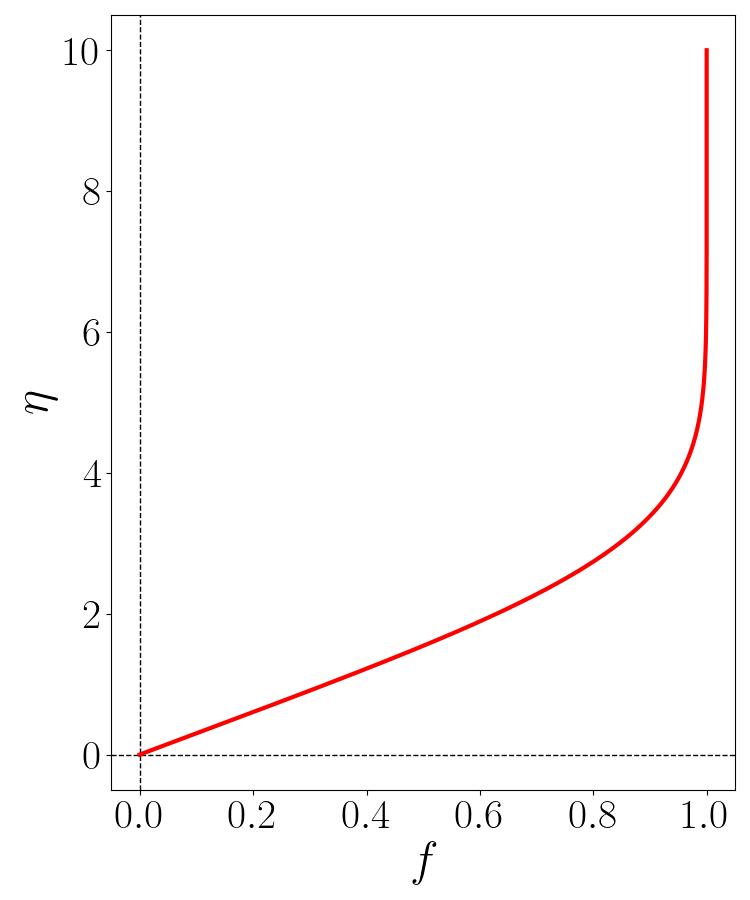
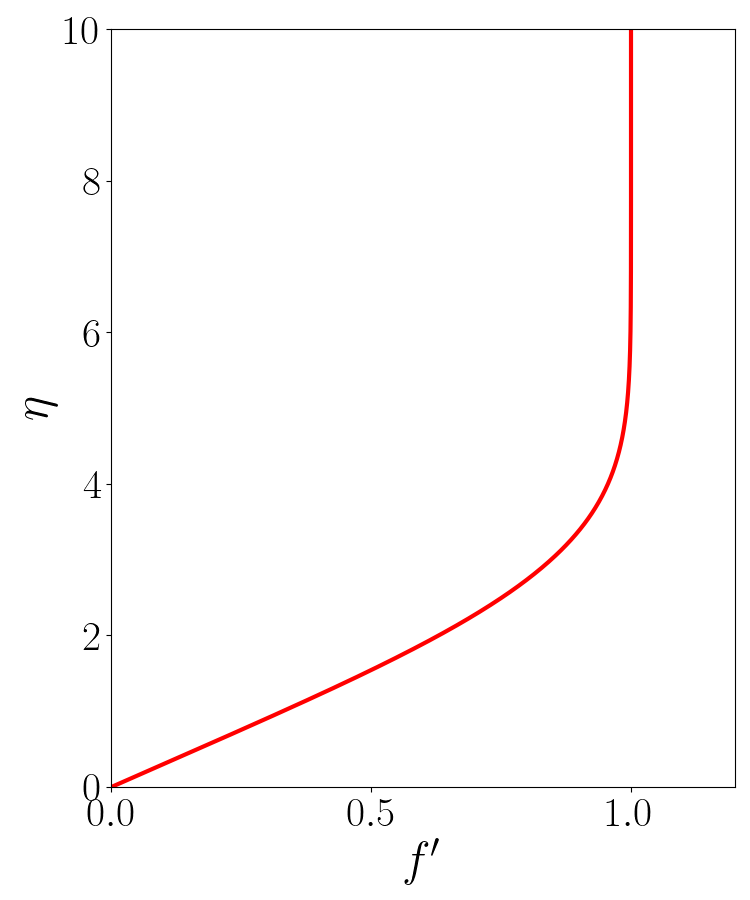
Updated page on Blasius BL with latest method

diff --git a/nu_fd.html b/nu_fd.html
@@ -1,0 +1,150 @@
+<!DOCTYPE html>
+<html>
+<head>
+    <meta charset="utf-8">
+    <meta http-equiv="X-UA-Compatible" content="IE=edge">
+    <meta name="viewport" content="width=device-width, initial-scale=1">
+
+    <script type='text/javascript' src='https://cdn.mathjax.org/mathjax/latest/MathJax.js?config=TeX-AMS-MML_HTMLorMML'></script>
+
+    <title>Roshan Samuel - Projects</title>
+<!--
+Classic Template
+http://www.templatemo.com/tm-488-classic
+-->
+    <!-- load stylesheets -->
+    <link rel="stylesheet" href="https://fonts.googleapis.com/css?family=Open+Sans:300,400">  <!-- Google web font "Open Sans" -->
+    <link rel="stylesheet" href="css/bootstrap.min.css">                                      <!-- Bootstrap style -->
+    <link rel="stylesheet" href="css/templatemo-style.css">                                   <!-- Templatemo style -->
+
+    <!-- HTML5 shim and Respond.js for IE8 support of HTML5 elements and media queries -->
+    <!-- WARNING: Respond.js doesn't work if you view the page via file:// -->
+        <!--[if lt IE 9]>
+          <script src="https://oss.maxcdn.com/html5shiv/3.7.2/html5shiv.min.js"></script>
+          <script src="https://oss.maxcdn.com/respond/1.4.2/respond.min.js"></script>
+          <![endif]-->
+</head>
+
+    <body>
+       
+<!-- Top header with quick-links to other html pages -->
+        <div class="tm-header">
+            <div class="container-fluid">
+                <div class="tm-header-inner">
+                    <a href="index.html" class="navbar-brand tm-site-name">Roshan Samuel</a>
+                    
+                    <!-- navbar -->
+                    <nav class="navbar tm-main-nav">
+
+                        <button class="navbar-toggler hidden-md-up" type="button" data-toggle="collapse" data-target="#tmNavbar">
+                            &#9776;
+                        </button>
+                        
+                        <div class="collapse navbar-toggleable-sm" id="tmNavbar">
+                            <ul class="nav navbar-nav">
+                                <li class="nav-item">
+                                    <a href="index.html" class="nav-link">Home</a>
+                                </li>
+                                <li class="nav-item">
+                                    <a href="research.html" class="nav-link">Research</a>
+                                </li>
+                                <li class="nav-item">
+                                    <a href="projects.html" class="nav-link">Projects</a>
+                                </li>
+                                <li class="nav-item">
+                                    <a href="about.html" class="nav-link">About</a>
+                                </li>
+                            </ul>                        
+                        </div>
+                        
+                    </nav>  
+
+                </div>                                  
+            </div>            
+        </div>
+<!-- End of top header with quick-links to other html pages -->
+
+
+<!-- Image band at the top of home page -->
+        <div class="tm-about-img-container">
+            
+        </div>
+<!-- End image band at the top of home page -->
+
+        <section class="tm-section">
+            <div class="container-fluid">
+                <div class="row tm-2-rows-sm-swap">
+                    <div class="col-xs-12">
+                        <h2 class="tm-gold-text">Finite-difference on non-uniform grids</h3>
+                        <p>
+                        The central-difference schemes for computing derivatives on a uniform grid are very well-known.
+                        </p>
+                    </div>
+                </div>
+
+            </div>
+        </section>
+        
+        <footer class="tm-footer">
+            <div class="container-fluid">
+                <div class="row">
+                    
+                <div class="col-xs-12 col-sm-6 col-md-6 col-lg-6 col-xl-6">
+                    <div class="tm-footer-content-box">
+                        <h3 class="tm-gold-text tm-title tm-footer-content-box-title">About the Page</h3>
+                        <div class="tm-gray-bg">
+                            <p>Classic HTML CSS website template provided by templatemo</p>
+                            <p>
+                            Downloaded from <a href="http://www.free-css.com/free-css-templates/page223/classic" target="_blank" class="nav-link">Free-CSS</a>
+                            </p>
+                        </div>    
+                    </div>
+                </div>
+
+                <div class="col-xs-6 col-sm-3 col-md-3 col-lg-3 col-xl-3">
+                    <div class="tm-footer-content-box tm-footer-links-container">
+                    
+                        <h3 class="tm-gold-text tm-title tm-footer-content-box-title">Jump To</h3>
+                        <nav>
+                            <ul class="nav">
+                                <li><a href="index.html" class="tm-footer-link">Home</a></li>
+                                <li><a href="research.html" class="tm-footer-link">Research</a></li>
+                                <li><a href="projects.html" class="tm-footer-link">Projects</a></li>
+                                <li><a href="about.html" class="tm-footer-link">About</a></li>
+                            </ul>
+                        </nav>
+                    </div>
+                </div>
+
+                <div class="col-xs-6 col-sm-3 col-md-3 col-lg-3 col-xl-3">
+                    <div class="tm-footer-content-box tm-footer-links-container">
+                    
+                        <h3 class="tm-gold-text tm-title tm-footer-content-box-title">Quicklinks</h3>
+                        <nav>
+                            <ul class="nav">
+                                <li><a href="https://www.iitk.ac.in/" target="_blank" class="tm-footer-link">IITK Homepage</a></li>
+                                <li><a href="https://www.iitk.ac.in/me/" target="_blank" class="tm-footer-link">ME Department</a></li>
+                                <li><a href="https://turbulencehub.org/" target="_blank" class="tm-footer-link">Lab Website</a></li>
+                                <li><a href="https://scholar.google.co.in/citations?user=LLwzMe8AAAAJ" target="_blank" class="tm-footer-link">Google Scholar</a></li>
+                                <li><a href="https://github.com/roshansamuel" target="_blank" class="tm-footer-link">GitHub</a></li>
+                            </ul>
+                        </nav>
+                    </div>
+                </div>
+
+                </div>
+
+                <div class="row">
+                    <div class="col-xs-12 tm-copyright-col">
+                        <p class="tm-copyright-text">Copyright 2021 Roshan Samuel</p>
+                    </div>
+                </div>
+            </div>
+        </footer>
+
+        <!-- load JS files -->
+        <script src="js/jquery-1.11.3.min.js"></script>             <!-- jQuery (https://jquery.com/download/) -->
+        <script src="https://www.atlasestateagents.co.uk/javascript/tether.min.js"></script> <!-- Tether for Bootstrap, http://stackoverflow.com/questions/34567939/how-to-fix-the-error-error-bootstrap-tooltips-require-tether-http-github-h --> 
+        <script src="js/bootstrap.min.js"></script>                 <!-- Bootstrap (http://v4-alpha.getbootstrap.com/) -->
+</body>
+</html>

diff --git a/blasius.html b/blasius.html
@@ -152,9 +152,13 @@ http://www.templatemo.com/tm-488-classic
                         <p>
                         In Python, this equation can be written as a simple function as below:
                         </p>
-                        <div class="col-xs-12">
-                            <img src="resources/blasiusODE.png" alt="Image" class="img-fluid tm-img-post">
-                        </div>
+<pre>
+
+    def blasiusEqn(eta, y):
+        f, g, h = y
+        return g, h, -h*f/2
+
+</pre>
                         <p>
                         This is an example of a non-autonomous ODE, since the variable of differentiation, \(\eta\) does not appear in the equations.
                         However, for the ODE solving functions of SciPy module to be used later, the variable of differentiation must also be defined as an argument of the function.
@@ -176,23 +180,47 @@ http://www.templatemo.com/tm-488-classic
                         After solving, we check the value of <code>g</code> (which is <code>y[1]</code> since we packed <code>f</code>, <code>g</code> and <code>h</code>
                         into a single variable <code>y</code>) and see how close it is to the expected value of 1 at infinity.
                         </p>
-                        <div class="col-xs-12">
-                            <img src="resources/blasiusFSolve.png" alt="Image" class="img-fluid tm-img-post">
-                        </div>
+<pre>
+
+    import scipy.integrate as integrate
+
+    def findh0(h0):
+        f0, g0 = 0, 0
+        initVals = np.array([f0, g0, h0], dtype=object)
+        res = integrate.RK45(blasiusEqn, 0, initVals, 100)
+        for i in range(100):
+            res.step()
+
+        return 1 - res.y[1]
+
+</pre>
                         <p>
-                        Note that the function subtracts 1 from the value of <code>y[1]</code> so that it will output 0 when we pass it the correct value of <code>h0</code>.
+                        Note that the function subtracts 1 from the value of <code>res.y[1]</code> (aka \(f'(\infty)\)) so that with the correct value of <code>h0</code> when \(f'(\infty) = g = 1\), the code will output 0.
                         Let us now test the above function by passing a series of possible values for <code>h0</code>, that is, \(f''(0)\).
                         We will pass 9 values from 0.1 to 0.9, at increments of 0.1 in a <code>for</code> loop as below:
                         </p>
-                        <div class="col-xs-12">
-                            <img src="resources/blasiusH0Find.png" alt="Image" class="img-fluid tm-img-post">
-                        </div>
+<pre>
+
+    for i in range(1, 10):
+        print(i/10, findh0(i/10))
+
+</pre>
                         <p>
                         When we run the above code, we get the following output:
                         </p>
-                        <div class="col-xs-12">
-                            <img src="resources/blasiusTryH0.png" alt="Image" class="img-fluid tm-img-post">
-                        </div>
+<pre>
+
+    0.1 0.5506351233427067
+    0.2 0.2866459873213928
+    0.3 0.06532864818390183
+    0.4 -0.13224447107866233
+    0.5 -0.3138520833820062
+    0.6 -0.4836714704127618
+    0.7 -0.6442724624772207
+    0.8 -0.7973778017977666
+    0.9 -0.9442182127881427
+
+</pre>
                         <p>
                         We see that somewhere between 0.3 and 0.4, the output of the function changes sign from positive to negative!
                         This is close to the expected value of 0.332, and we must now try to get this value using a non-linear solver.
@@ -201,18 +229,54 @@ http://www.templatemo.com/tm-488-classic
                         and an initial guessed value, for which we choose 0.3, since we just found that to be pretty close to the root of the function.
                         Thus we find the expected value with just a one-line code.
                         </p>
-                        <div class="col-xs-12">
-                            <img src="resources/printH0.png" alt="Image" class="img-fluid tm-img-post">
-                        </div>
+<pre>
+
+    import scipy.optimize as optimize
+
+    h0 = optimize.fsolve(findh0, 0.3)
+    print(h0[0])
+
+</pre>
                         <p>
                         This will very nicely print the expected value of <code>h0</code> as 0.332 which is indeed the expected value.
-                        Putting it all together, we can now solve the Blasius equation with a short Python code:
+                        Putting it all together, we can now solve the Blasius equation and plot the resulting velocity profile with a short Python code:
                         </p>
-                        <div class="col-xs-12">
-                            <img src="resources/blasiusMain.png" alt="Image" class="img-fluid tm-img-post">
-                        </div>
+<pre>
+
+    import matplotlib.pyplot as plt
+
+    def blasius():
+        f0, g0 = 0, 0
+        h0 = optimize.fsolve(findh0, 0.3)
+        initVals = np.array([f0, g0, h0], dtype=object)
+        res = integrate.solve_ivp(blasiusEqn, (0, 10), initVals, max_step=0.01)
+
+        eta = res.t
+        g = res.y[1]
+
+        # Now plot the profile
+        fig = plt.figure(figsize=(7.5, 9))
+        ax = fig.add_subplot(1, 1, 1)
+
+        ax.plot(g, eta, linewidth=3, color='r')
+
+        ax.set_xlim(0, 1.2)
+        ax.set_ylim(0, 10)
+        ax.set_xlabel(r"$f'$", fontsize=35)
+        ax.set_ylabel(r"$\eta$", fontsize=35)
+        ax.tick_params(axis='both', which='major', labelsize=30)
+
+        plt.tight_layout()
+        plt.show()
+
+    blasius()
+
+</pre>
                         <p>
-                        Finally we plot the <code>f</code> computed above against <code>eta</code> to finally see Blasius profile in the flesh.
+                        Two things to note in the above code are that (a) we use the function <code>solve_ivp</code> instead of <code>RK45</code> because it gives finer control
+                        on the spacing of points in the final result so that we get a neat-looking plot, and (b) we are actually plotting \(g = f'(\eta)\) because \(f\) is merely
+                        the non-dimensional stream-function. The actual velocity profile is given by its derivative.
+                        Finally we see Blasius profile in the flesh:
                         <div class="col-xs-12">
                             <img src="resources/blProfile.png" alt="Image" class="img-fluid tm-img-post">
                         </div>

diff --git a/css/templatemo-style.css b/css/templatemo-style.css
@@ -204,6 +204,7 @@ h4 {
 
 hr { border-top: 1px solid #CCCCCC; }
 p { line-height: 1.9; }
+pre, code { background-color: #eef }
 
 .tm-gray-bg { 
 	background-color: #CCCCCC; 
